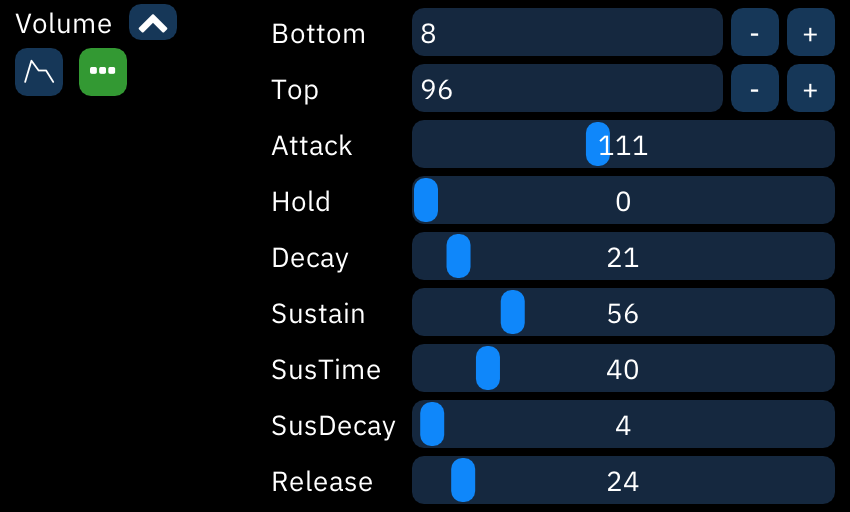
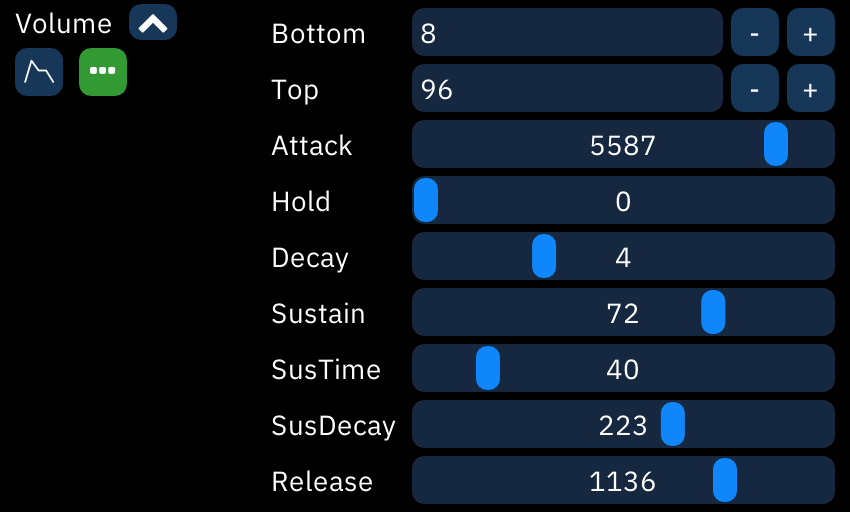
The ADSR/LFO macro docs update.
I hope the descriptions of the math aren't too much, but the new numbers beg for a little more explanation to make sense.

diff --git a/doc/4-instrument/README.md b/doc/4-instrument/README.md
@@ -98,7 +98,7 @@ each macro has the following parameters:
 - macro type (explained below)
 - timing options:
   - **Step Length (ticks)**: determines the number of ticks between macro steps. default is 1.
-  - **Delay**: delays the macro until this many ticks have elapsed. default is 0.
+  - **Delay**: delays the macro after the first tick until this many more ticks have elapsed. default is 0.
   - the button is highlighted if either of these parameters is set to non-default values.
 
 ## macro types
@@ -181,16 +181,23 @@ the release mode parameter determines how macro release (`===` or `REL` in the p
 
 ![ADSR macro editor](macro-ADSR.png)
 
-- **Bottom** and **Top** determine the macro's output range (Bottom can be larger than Top to invert the envelope!). all outputs will be between these two values.
-- Attack, Decay, Sustain, SusDecay, and Release accept inputs between 0 to 255. these are scaled to the distance between Bottom and Top.
-  - the output starts at Bottom.
-  - **Attack** is how much the output moves toward Top with each tick.
-  - **Hold** sets how many ticks to stay at Top before Decay.
-  - **Decay** is how much the output moves to the Sustain level.
-  - **Sustain** is how far from Bottom the value stays while the note is on.
-  - **SusTime** is how many ticks to stay at Sustain until SusDecay.
-  - **SusDecay** is how much the output moves toward Bottom with each tick while the note is on.
-  - **Release** is how much the output moves toward Bottom with each tick after the note is released.
+note: ADSR envelopes operate differently in versions 0.6.8.3 and prior.
+
+- **Bottom** and **Top** determine the macro's output range Bottom can be larger than Top to invert the envelope. all outputs will be between these two values.
+- the Attack, Decay, SusDecay, and Release portions of the envelope change value by the specified amount before each tick, including the first.
+    - 0 equals no change; the value stays at Bottom.
+    - 1 equals 1/256 of a step per tick, the slowest possible change.
+    - the maximum value is the number of steps between Bottom and Top multiplied by 256 and minus 1. this is effectively instantaneous.
+  - hovering over any of these values' sliders will show a tooltip with the estimated length of that envelope segment in ticks.
+- the envelope plays out in this order:
+  - the output is set to Bottom before the first tick of the note is calculated.
+  - **Attack** is how much the output moves toward Top at the start of each tick. this also includes the first tick that the note plays; an Attack of 256 will start the note at one step from Bottom toward Top.
+  - **Hold** sets how many ticks to stay at Top before Decay starts. ranges from 0 to 255.
+  - **Decay** is how much the output moves toward the Sustain level.
+  - **Sustain** is the value the output stays at until the note is released. ranges from Bottom to Top.
+  - **SusTime** is how many ticks to stay at Sustain until SusDecay. ranges from 0 to 255.
+  - **SusDecay** is how much the output moves toward Bottom while the note is held.
+  - **Release** is how much the output moves toward Bottom after the note is released.
 
 ![macro ADSR chart](macro-ADSRchart.png)
 
@@ -198,13 +205,25 @@ the release mode parameter determines how macro release (`===` or `REL` in the p
 
 ![LFO macro editor](macro-LFO.png)
 
-- **Bottom** and **Top** determine the macro's output range (Bottom can be larger than Top to invert the waveform!).
-- **Speed** is how quickly the LFO position moves.
-- **Phase** defines the starting LFO position, measured in 1/1024 increments.
+note: LFO envelopes operate differently in versions 0.6.8.3 and prior.
+
+- **Bottom** and **Top** determine the macro's output range. Bottom can be larger than Top to invert the waveform. all outputs will be between these two values.
+- **Speed** determines the LFO frequency, and depends on the LFO shape set further below.
+  - for triangle and saw, this is how much the output value changes per tick measured in 1/128 of a step.
+    - 0 equals no change; the value stays frozen at its initial state determined by Phase.
+    - 1 equals 1/128 of a step per tick, the slowest possible change.
+    - the maximum value is the number of steps between Bottom and Top multiplied by 128 and minus 1.
+    - this happens before the first tick plays; an Attack of 128 will start the note at one step from Bottom toward Top.
+  - for Square, this is how much of a single cycle passes per tick, measured in 1/65536 of a cycle.
+    - 0 equals no change.
+    - 1 equals 1/65535 of a cycle per tick, the slowest possible.
+    - the maximum value is 32768 which makes output alternate between Bottom and Top in a two-tick cycle, the fastest possible.
+  - hovering over this value's slider will show a tooltip with the estimated length of a cycle in ticks.
+- **Phase** defines the starting LFO position before the first tick is calculated, measured in 1/1024 cycle increments. a phase of 0 starts at Bottom. for triangle and square Shapes, a phase of 512 outputs Top; for the saw Shape, it outputs halfway between Bottom and Top.
 - **Shape** is the waveform of the LFO. there are three waveforms:
-  - Triangle: Bottom > Top > Bottom.
-  - Saw: moves from Bottom to Top, and then jumps back to Bottom.
-  - Square: alternates between Bottom and Top.
+  - Triangle: smoothly ramps from Bottom to Top to Bottom, looping.
+  - Saw: ramps from Bottom to Top, then snaps back to Bottom and loops.
+  - Square: alternates between Bottom and Top with nothing in between.
 
 
 
